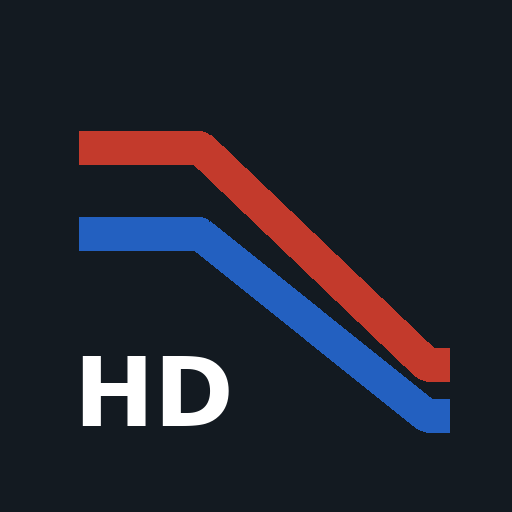
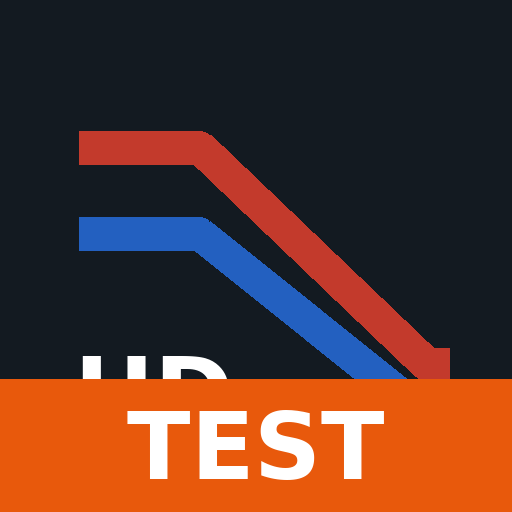
HeatDrive TEST 0.73.0 : appli de test séparée (bandeau orange, icône TEST, données séparées)
Claude-Session: https://claude.ai/code/session_01VQogLPf6HKHDtAkcfFGgT8

Changed region(s): [[0.0, 0.7188, 1.0, 1.0]]

diff --git a/index.html b/index.html
@@ -1,5 +1,5 @@
[1 lines of base64/hex data omitted]
-<title>HeatDrive</title>
[1 lines of base64/hex data omitted]
+<title>HeatDrive TEST</title>
 <meta name="claude:viewport-fit-sides" content="cover">
 <link rel="preconnect" href="https://fonts.googleapis.com">
 <link rel="preconnect" href="https://fonts.gstatic.com" crossorigin>
@@ -3313,7 +3313,7 @@ textarea.fallback{width:100%;height:120px;margin-top:10px;font:12px ui-monospace
 
   /* =================== Accueil et modules =================== */
   /* ---------- Modules favoris de l'accueil ---------- */
-  const APP_VER = '0.73';
+  const APP_VER = '0.73.0 (TEST)';
   const OFF = ['fod']; // modules retirés pour l'instant (code conservé) : Puissance fioul revient en V1.00
   const MODS = ['simple', 'expert', 'power', 'gas', 'dp', 'flow', 'fod'];
   const HKEY = KEY + '-home';

diff --git a/sw.js b/sw.js
@@ -1,5 +1,5 @@
 // HeatDrive : fonctionne hors ligne une fois ouvert. Réseau d'abord (pour recevoir les mises à jour), cache sinon.
-const C = 'heatdrive-v0.73';
+const C = 'heatdrive-test-v0.73.0';
 const FILES = ['./', 'index.html', 'manifest.webmanifest', 'apple-touch-icon.png', 'icon-192.png', 'icon-512.png'];
 self.addEventListener('install', e => { e.waitUntil(caches.open(C).then(c => c.addAll(FILES)).then(() => self.skipWaiting())); });
 self.addEventListener('activate', e => { e.waitUntil(caches.keys().then(ks => Promise.all(ks.filter(k => k !== C).map(k => caches.delete(k)))).then(() => self.clients.claim())); });
